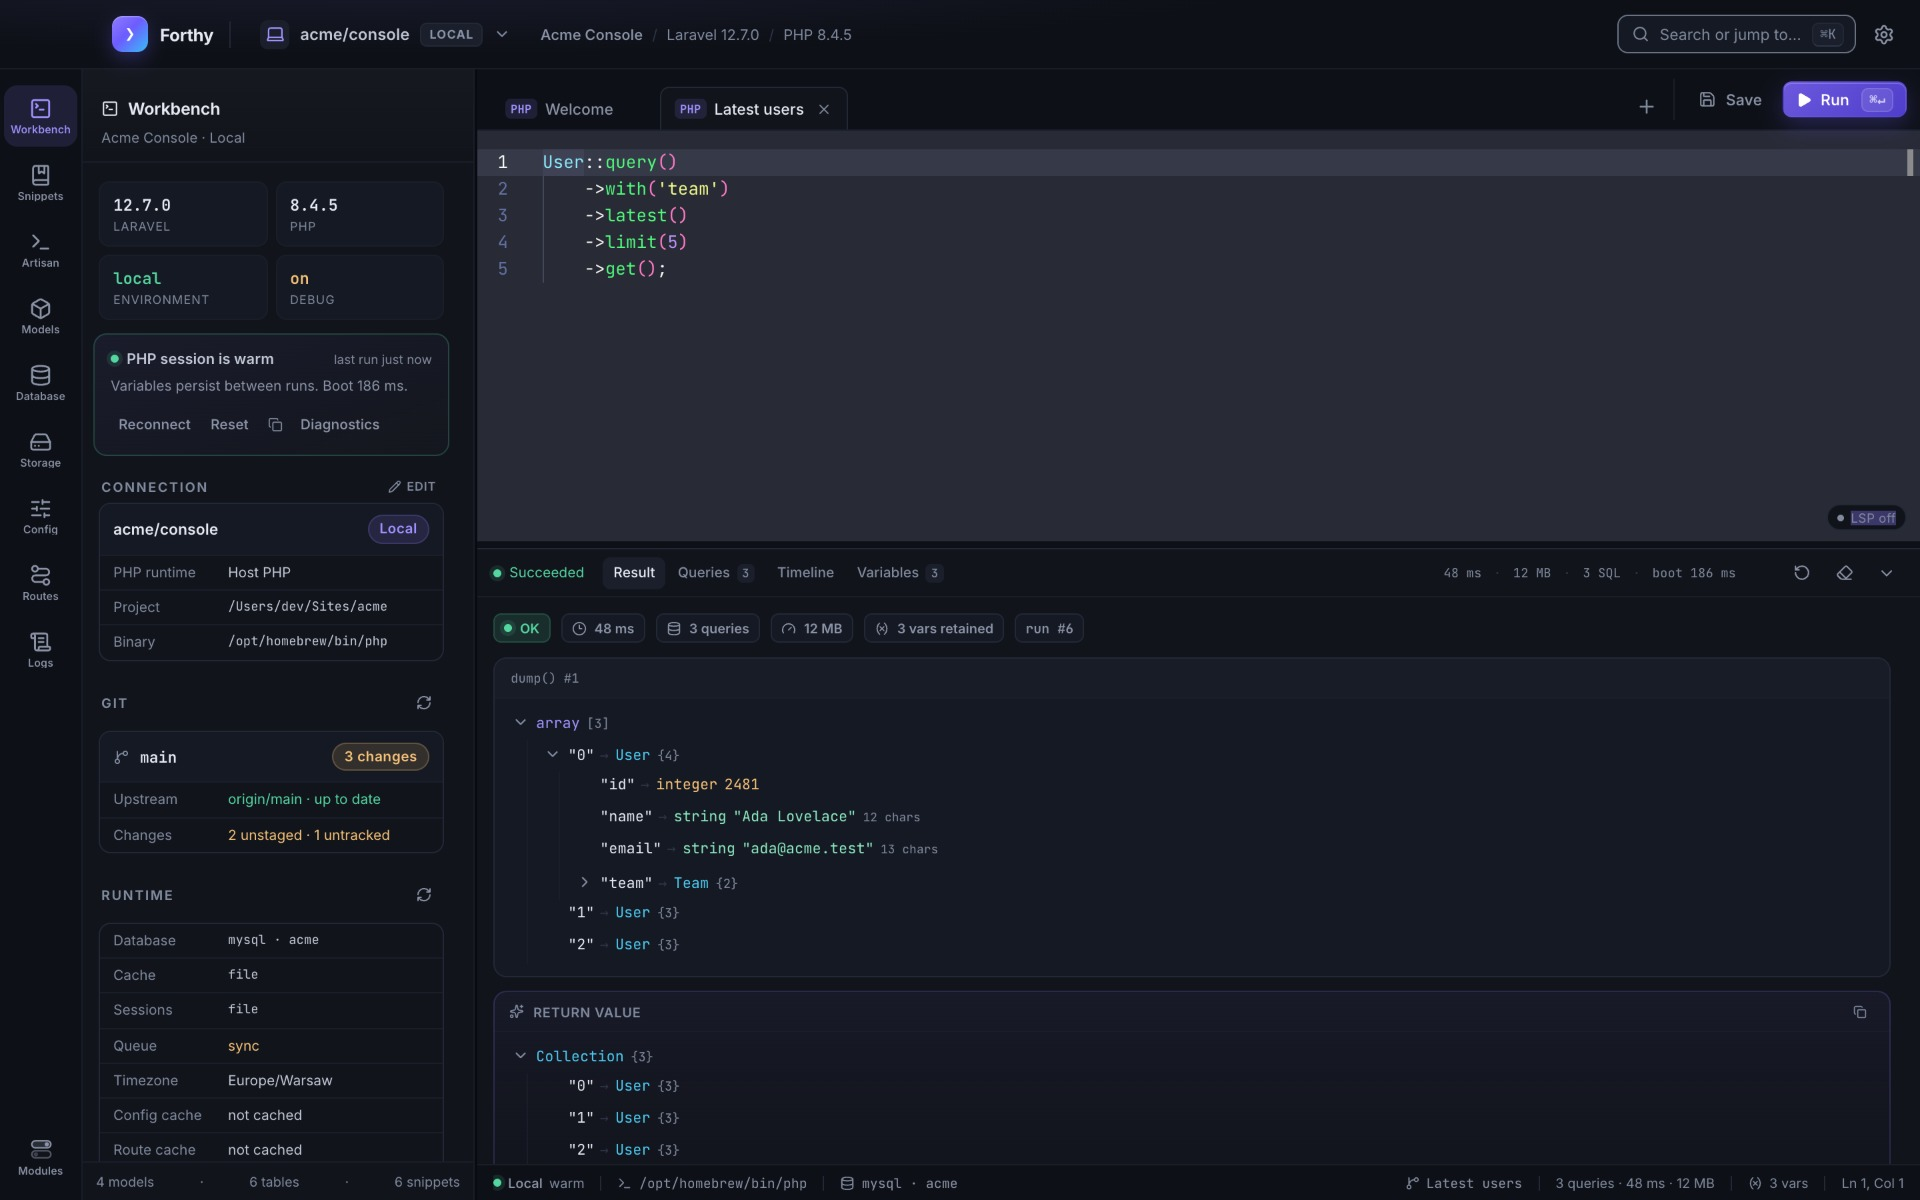
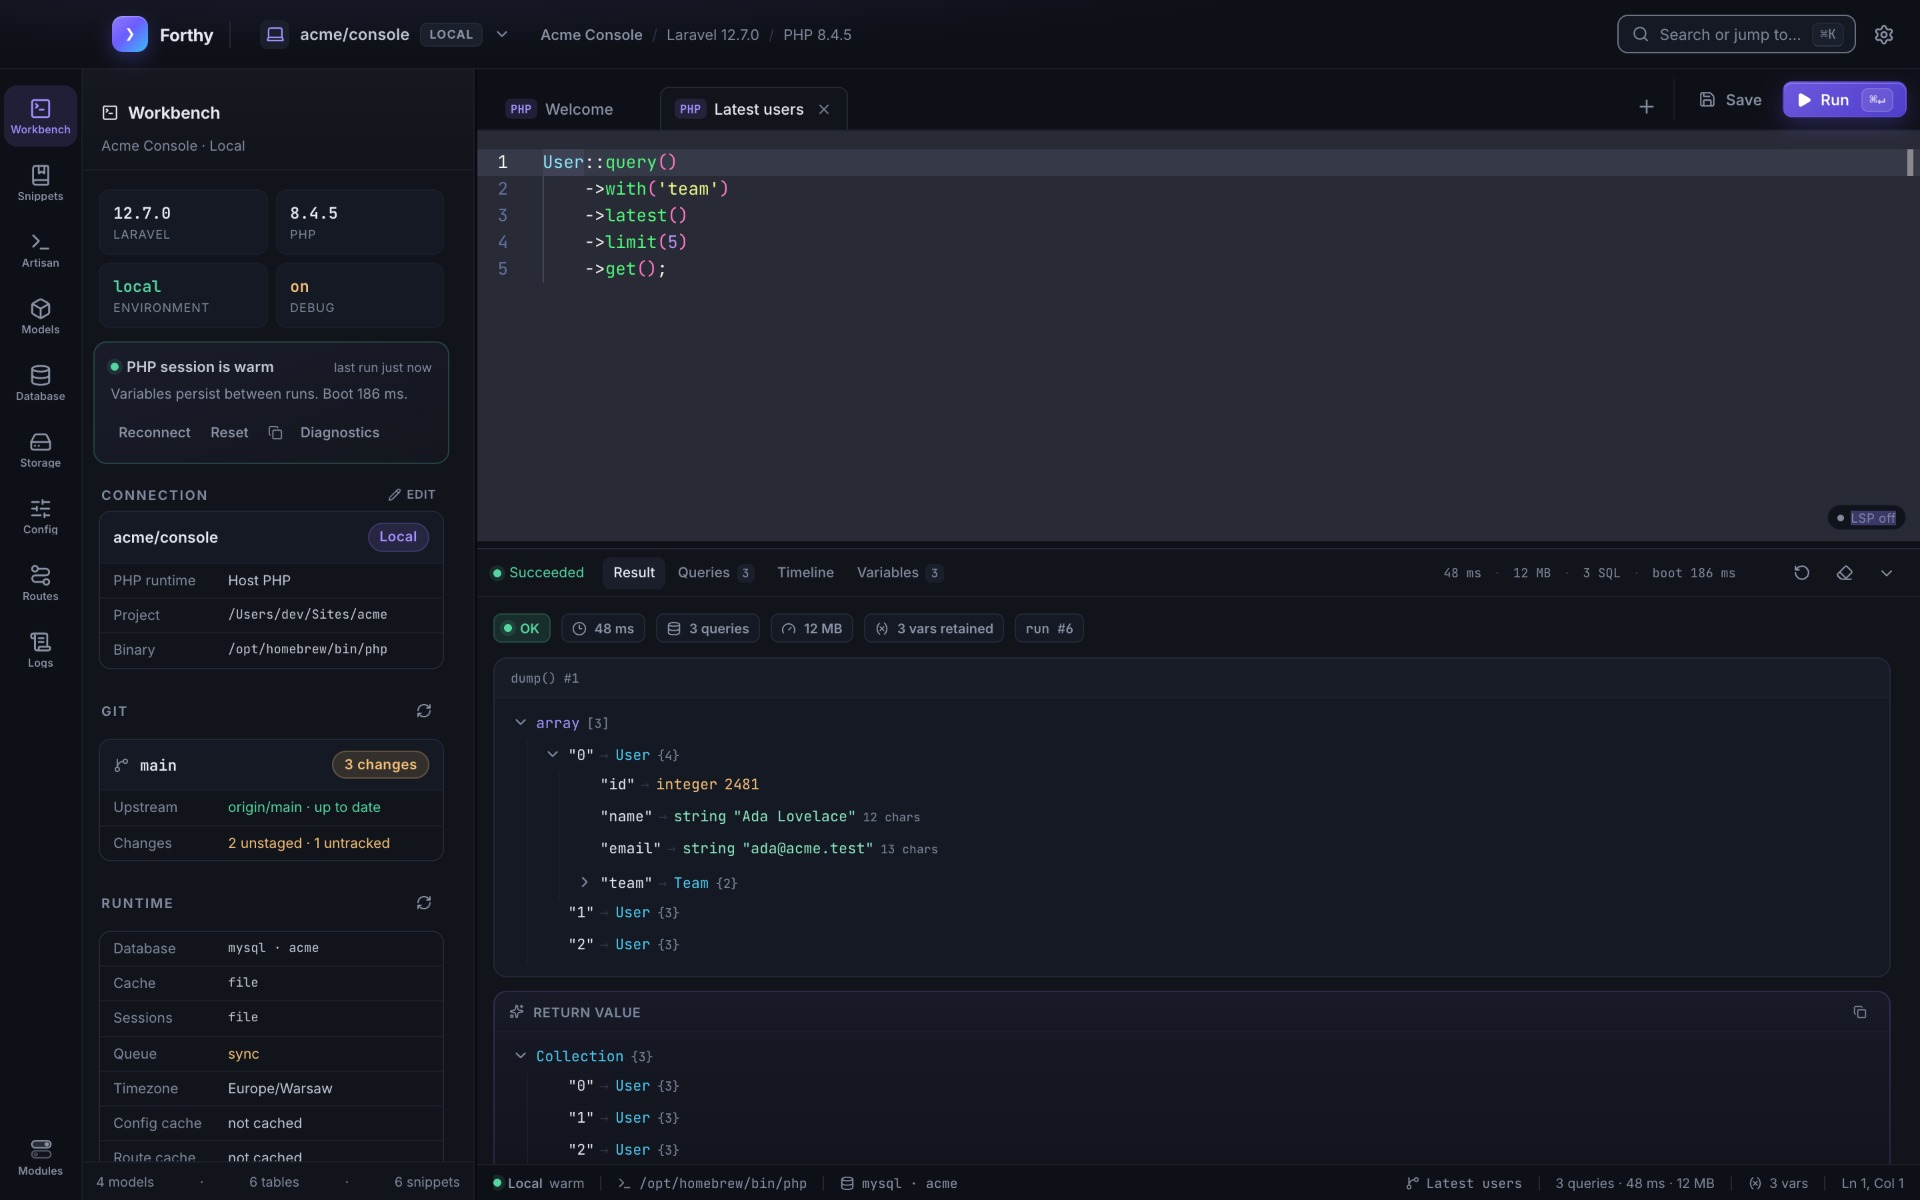
docs: release 0.14.0

diff --git a/site/index.html b/site/index.html
@@ -14,7 +14,7 @@
 
     <link rel="icon" href="favicon.svg" type="image/svg+xml" />
     <link rel="apple-touch-icon" href="apple-touch-icon.png" />
-    <link rel="stylesheet" href="styles.css?v=0.13.2" />
+    <link rel="stylesheet" href="styles.css?v=0.14.0" />
 
     <meta property="og:type" content="website" />
     <meta property="og:site_name" content="Forthy" />
@@ -36,7 +36,7 @@
     />
     <meta name="twitter:image" content="https://stealthpro.github.io/forthy-app/og.jpg" />
 
-    <script src="site.js?v=0.13.2" defer></script>
+    <script src="site.js?v=0.14.0" defer></script>
   </head>
   <body>
     <a class="skip-link" href="#main">Skip to content</a>
@@ -110,7 +110,7 @@
                 href="https://github.com/stealthpro/forthy-app/releases/latest/download/Forthy-macos-aarch64.zip"
               >
                 Download for macOS
-                <span class="button-note">v<span data-version>0.13.2</span> · arm64</span>
+                <span class="button-note">v<span data-version>0.14.0</span> · arm64</span>
               </a>
               <a class="button button-ghost" href="https://github.com/stealthpro/forthy-app">
                 View on GitHub
@@ -489,7 +489,8 @@
           </div>
           <ul class="check-list">
             <li>No package, route or server is installed in your application.</li>
-            <li>Connections, snippets and settings live in local SQLite.</li>
+            <li>Connections, snippets and settings live in an encrypted local SQLCipher library; the key stays in your macOS Keychain.</li>
+            <li>Exported connection files are sealed with a passphrase by default.</li>
             <li>SSH passwords stay in memory for the session — never on disk, in a log or in argv.</li>
             <li>Destructive code is flagged before it runs; nothing runs on import.</li>
             <li>Optional locks ask macOS — Touch ID or the Mac password — before the app or a chosen project opens. Forthy stores only a flag.</li>
@@ -512,7 +513,7 @@
               href="https://github.com/stealthpro/forthy-app/releases/latest/download/Forthy-macos-aarch64.zip"
             >
               Download Forthy
-              <span class="button-note">v<span data-version>0.13.2</span> · Apple Silicon</span>
+              <span class="button-note">v<span data-version>0.14.0</span> · Apple Silicon</span>
             </a>
             <p class="fine-print">
               <a href="https://github.com/stealthpro/forthy-app/releases">All releases</a> ·

diff --git a/README.md b/README.md
@@ -15,7 +15,9 @@ project, Docker, SSH or a Kubernetes pod.
 
 Apple Silicon (arm64), macOS 11 or later. The build is ad-hoc signed, so on first launch
 use **right-click → Open**. Forthy 0.7.6 and newer update themselves from inside the app:
-accept the update notice, then confirm the restart. Verify the download with the `.sha256`
+accept the update notice, then confirm the restart. Updating from 0.13.x converts the local
+library on first launch — keep your Keychain item named `library-key`, and export anything
+you want to move to another Mac. Verify the download with the `.sha256`
 file from the release page:
 
 ```bash
@@ -31,7 +33,8 @@ shasum -a 256 -c Forthy-macos-aarch64.zip.sha256
   kept (the panel says how many were dropped); a `dd()` tree is not cut by the text limit.
 - **Snippets** — save and reuse code, tag destructive snippets, and keep a history of
   every run. A tab that ran something reopens with its result after a restart — a PHP run
-  together with the variables it recorded.
+  together with the variables it recorded. Export the library and its connections as one
+  file, sealed with a passphrase by default.
 - **Artisan** — a searchable command list with favorites, streaming output and console
   tabs.
 - **Models** — an Eloquent reference for the real app: attributes, casts, relations,
@@ -84,9 +87,10 @@ shasum -a 256 -c Forthy-macos-aarch64.zip.sha256
   a new version only after you confirm it. Every archive is signature-checked first, and
   **Check for Updates…** in the application menu runs the same check on demand. The restart
   waits while a PHP run, a SQL query or an Artisan command is still going.
-- **Safety** — destructive code is flagged and confirmed before it runs; secrets are
-  never written to disk, and the optional locks are checked by macOS without the app ever
-  seeing the password.
+- **Safety** — the local library is encrypted at rest (SQLCipher, key in your login
+  Keychain), exported connection files are sealed with a passphrase by default, and
+  destructive code is flagged and confirmed before it runs. The optional locks are checked
+  by macOS without the app ever seeing the password.
 
 ## Screenshots
 

diff --git a/CHANGELOG.md b/CHANGELOG.md
@@ -1,5 +1,26 @@
 # Changelog
 
+## 0.14.0 — 2026-11-25
+
+A security release: the local library and exported connection files are now encrypted.
+
+- **Connection exports are sealed** — the export dialog protects the file with a
+  passphrase by default (Argon2id + XChaCha20-Poly1305). The passphrase is never
+  stored; importing a sealed file asks for it first, and a wrong passphrase changes
+  nothing. Plain exports still import.
+- **The local library is encrypted** — connections, snippets, run history and Artisan
+  output live in a SQLCipher database whose key is created on first launch and kept in
+  your login Keychain. The key never reaches the library file, an export or a log, and
+  it does not sync or migrate to another Mac. The first launch converts an existing
+  library in place and deletes the plaintext copy once the encrypted one opens; an
+  interrupted conversion is completed or rolled back on the next launch. A copied
+  `forthy.sqlite` no longer opens without the Keychain item, so moving machines goes
+  through a sealed export.
+- **The sidebar header keeps its height** — switching between Snippets and Recent runs
+  no longer shifts the panel.
+- The app is about 3.3 MB larger because SQLCipher and its vendored OpenSSL are
+  compiled in.
+
 ## 0.13.2 — 2026-11-24
 
 A polish release: the app starts faster, sessions stop when they should, and the interface
